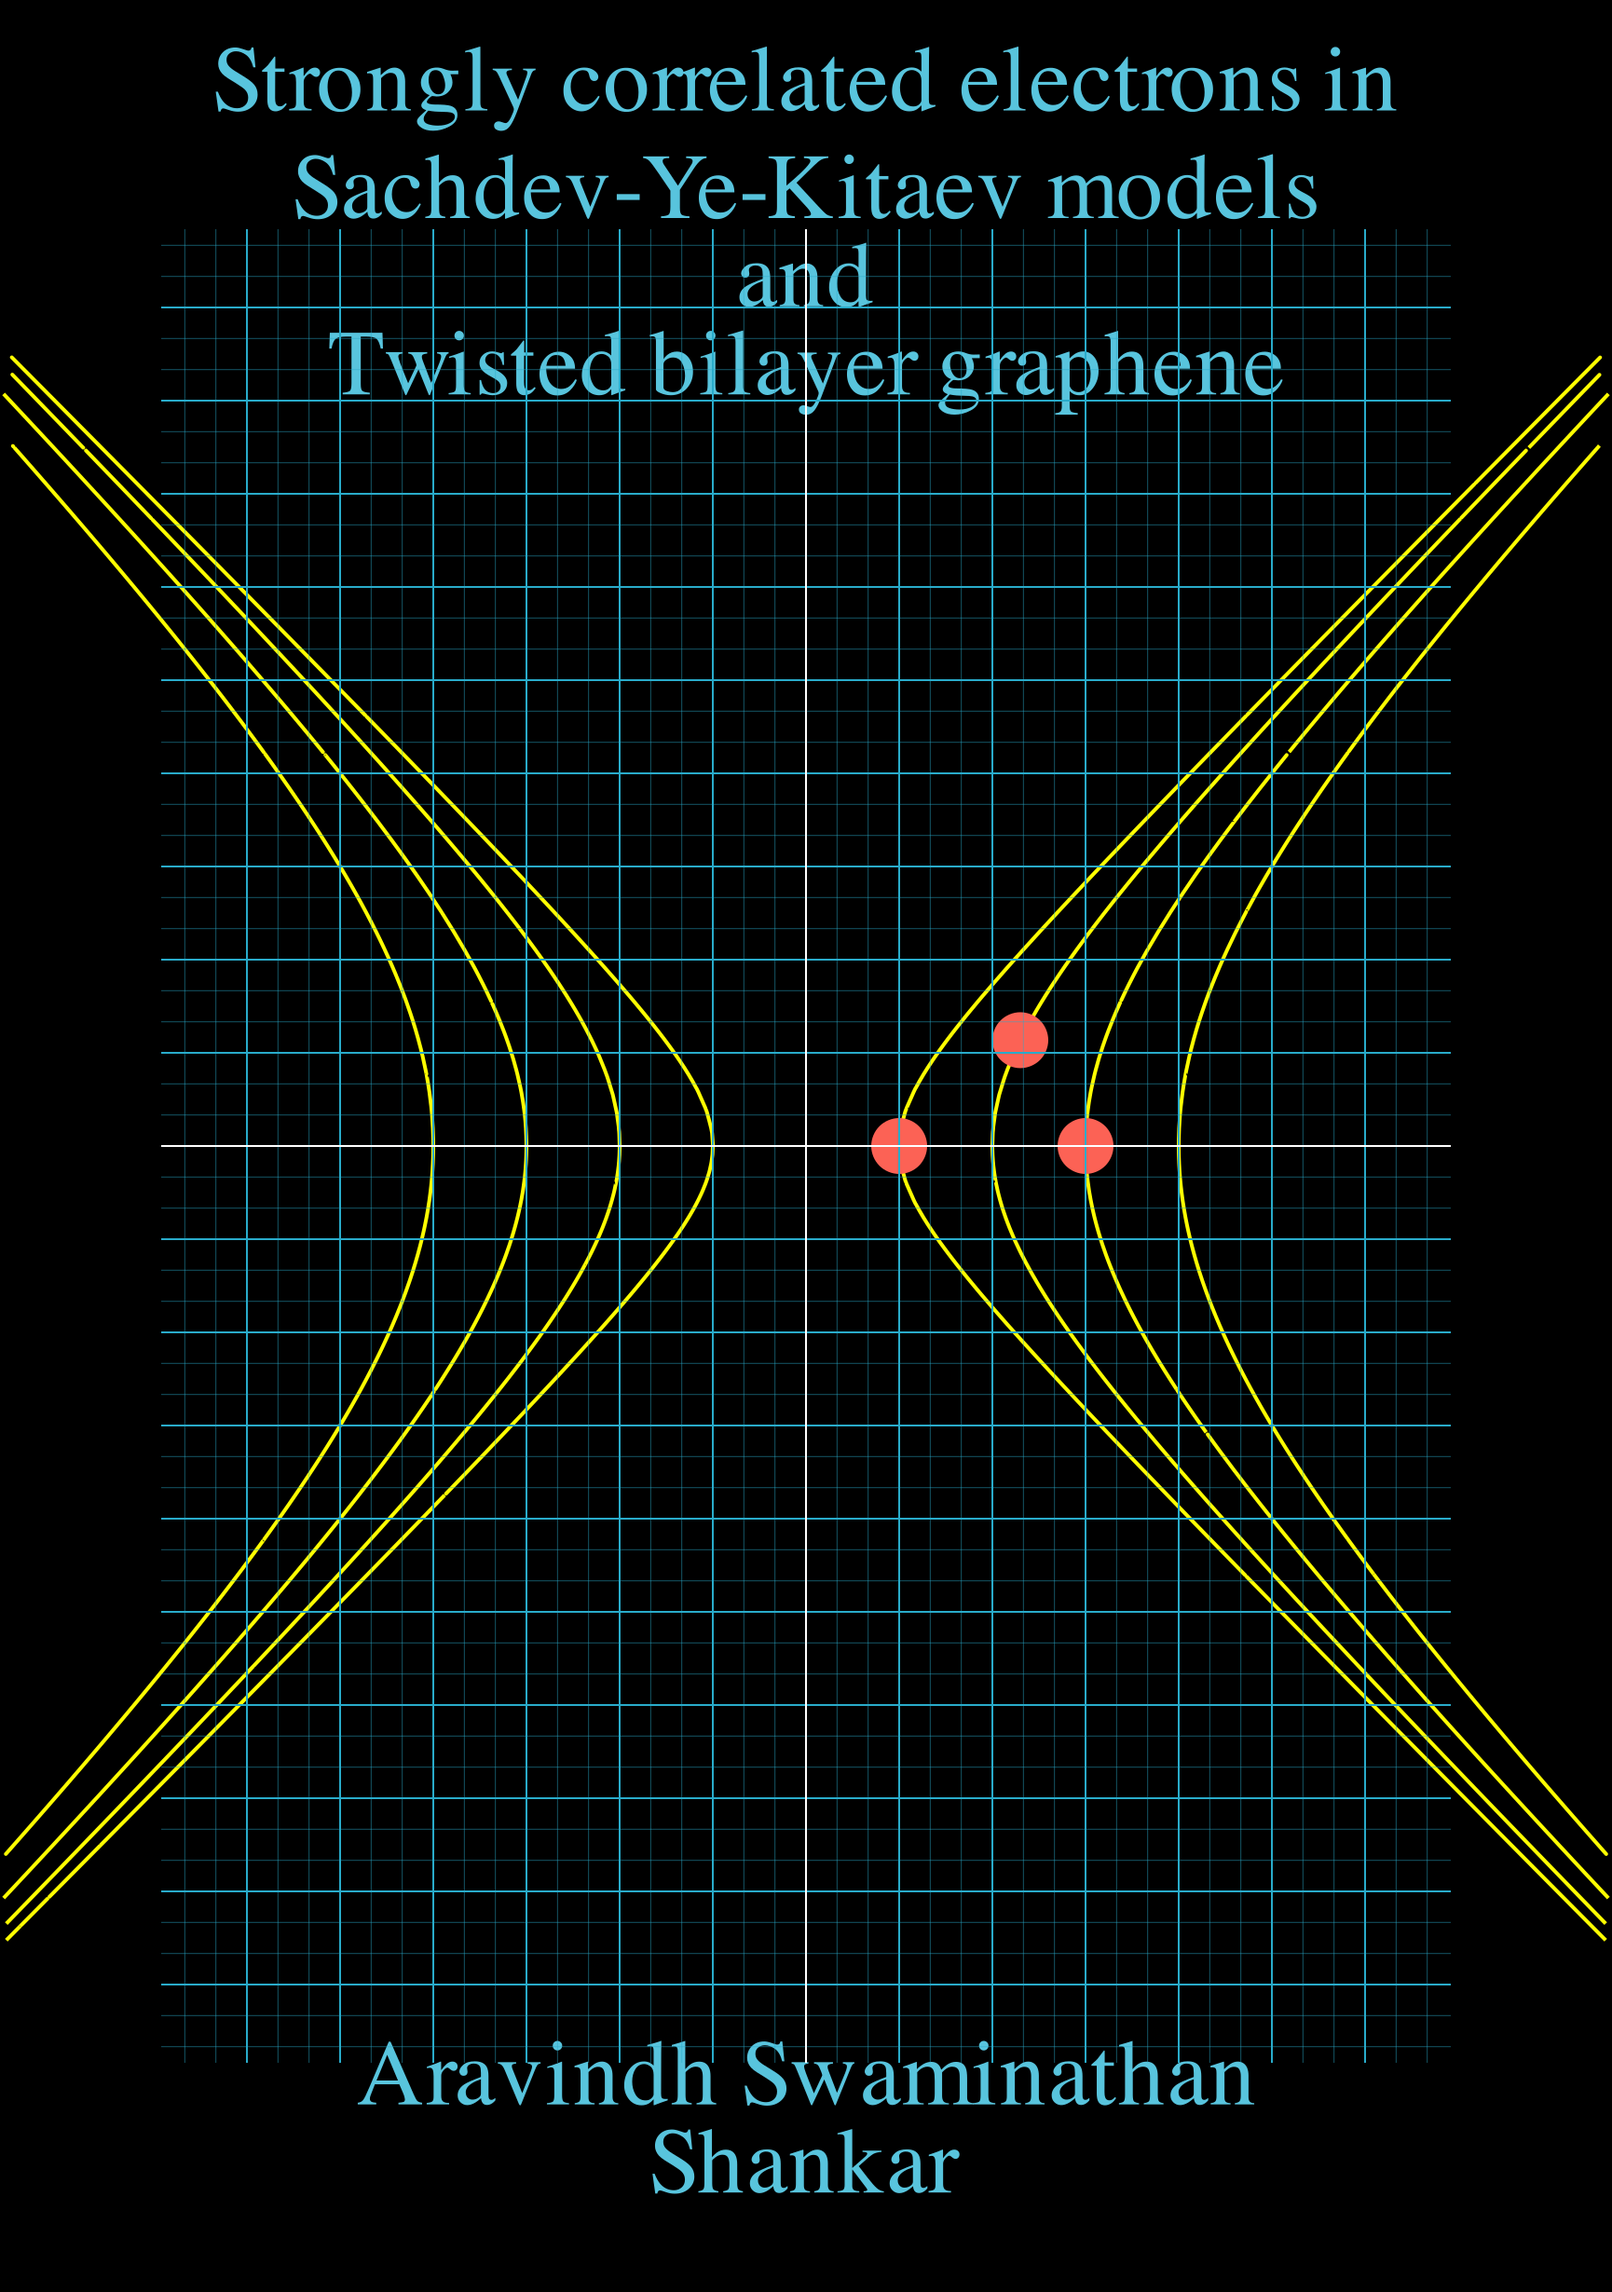
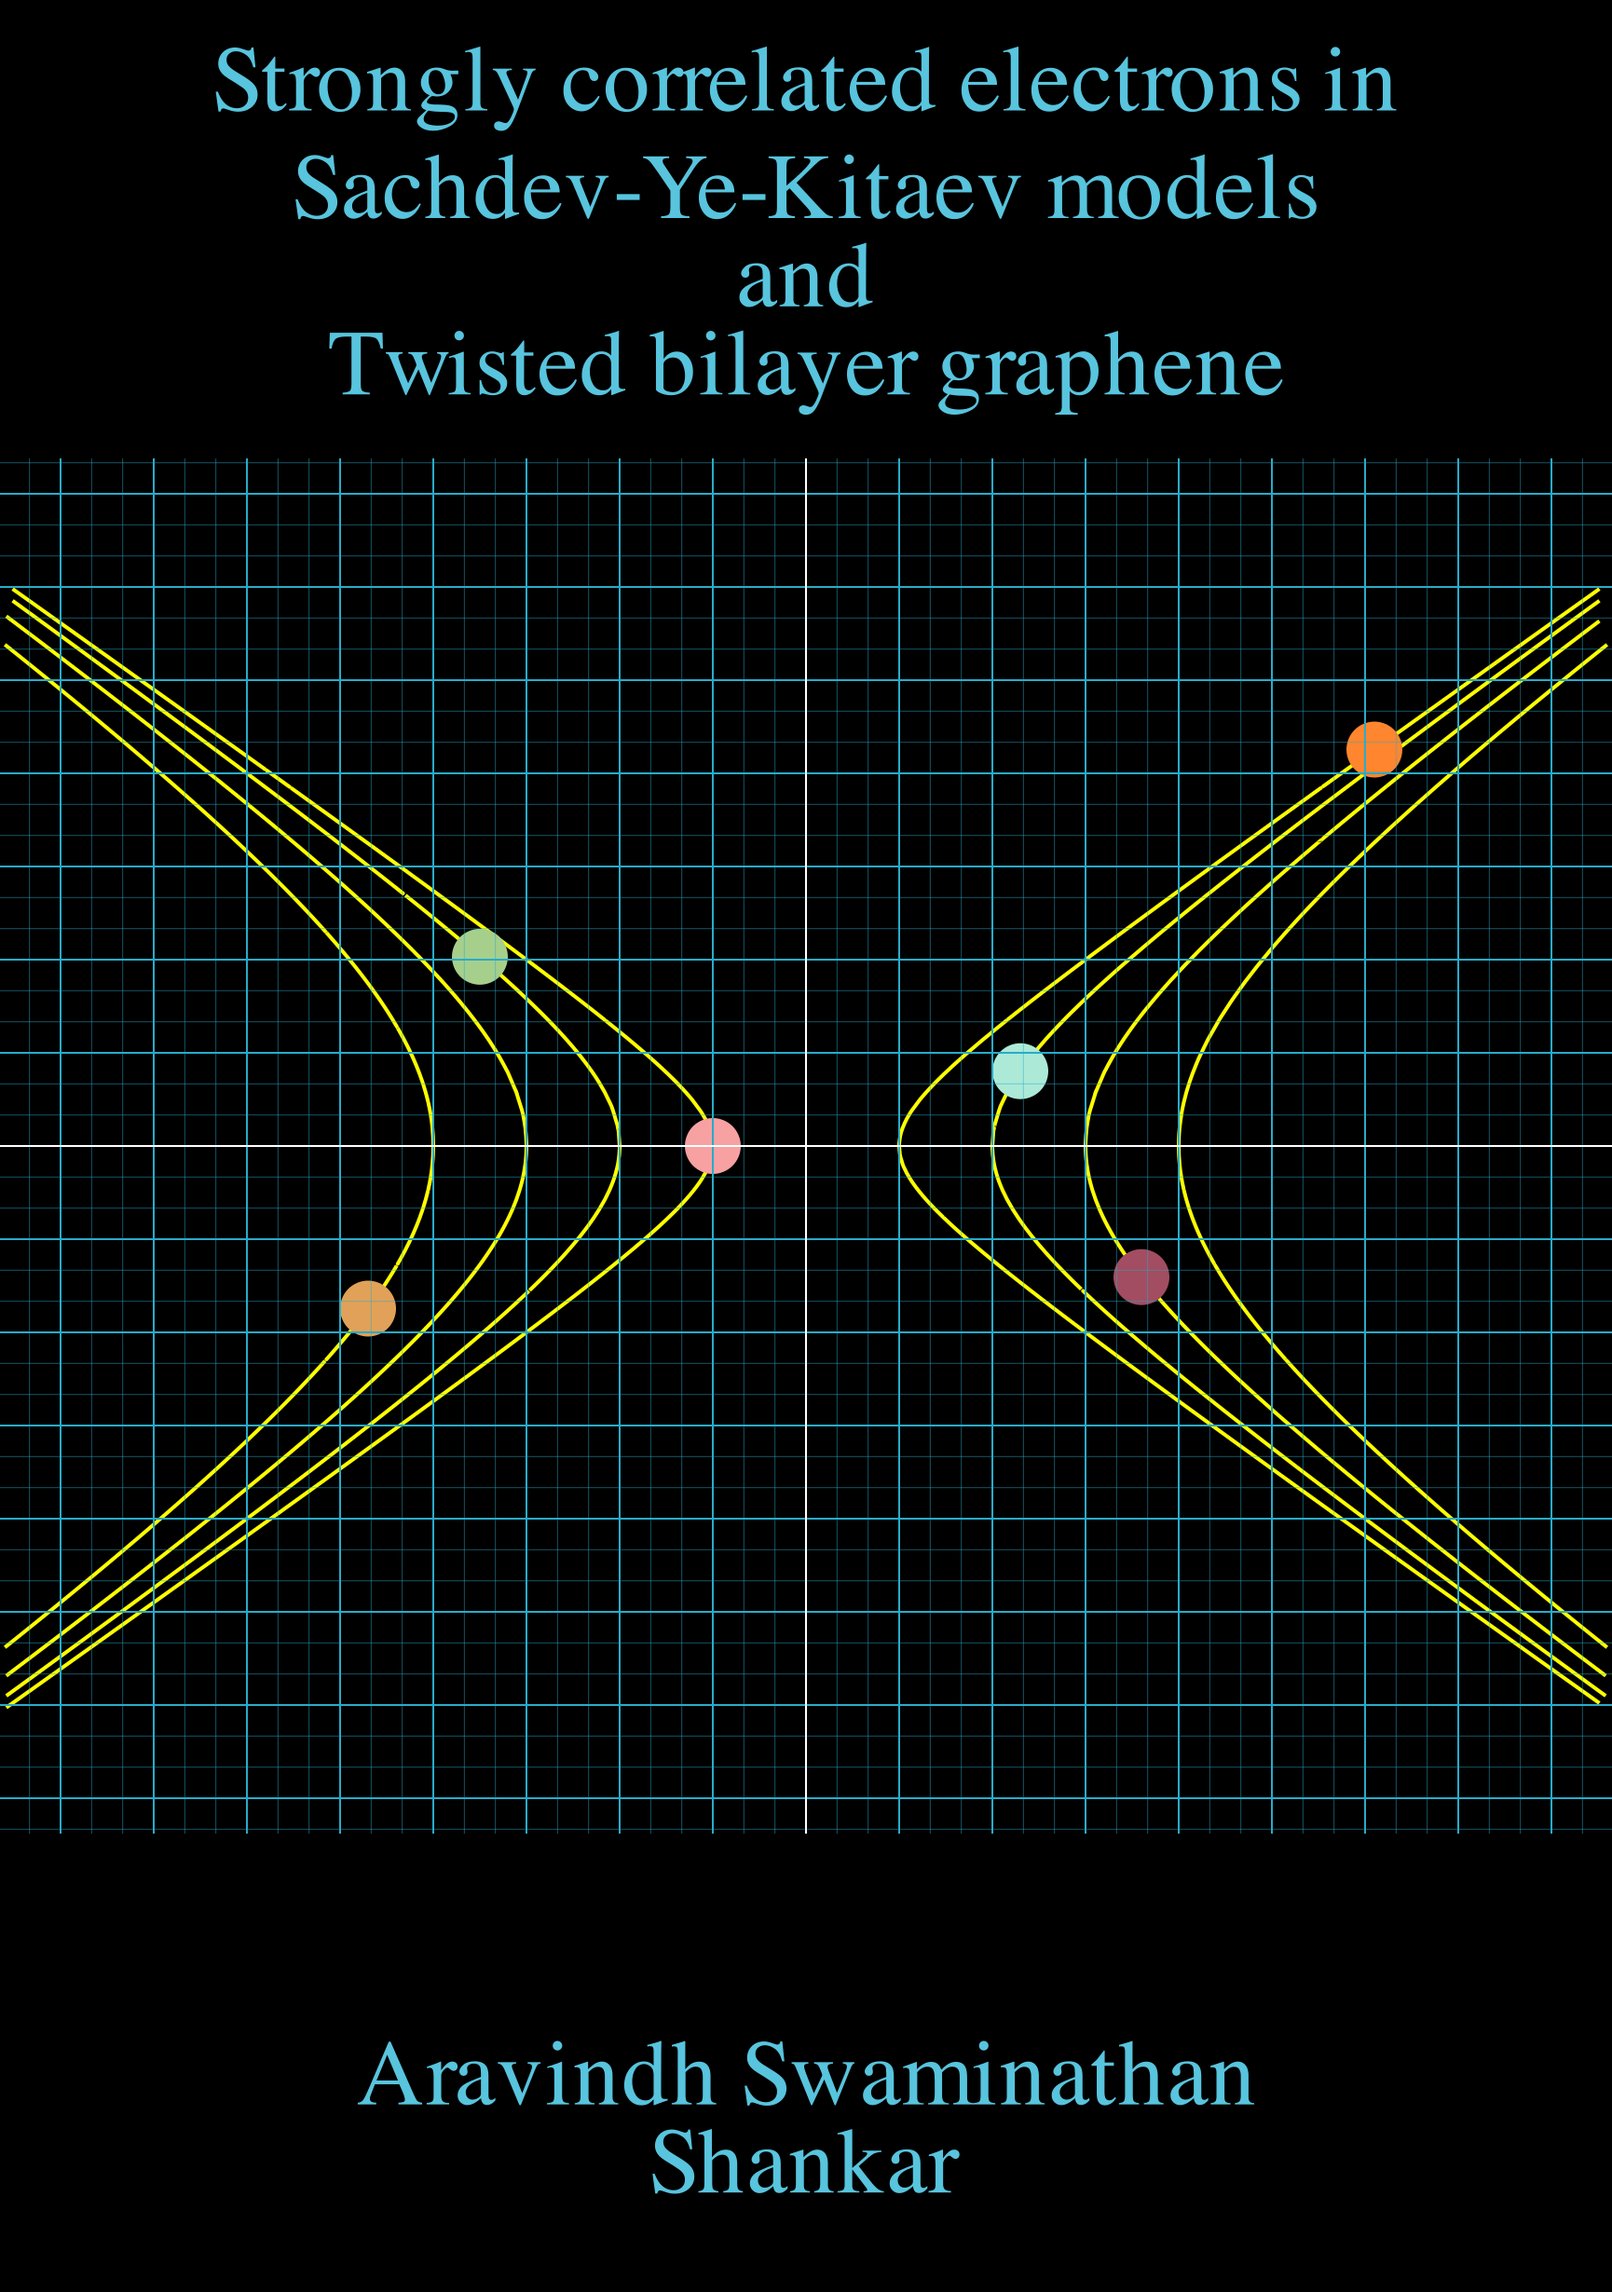
something I'm happy with

diff --git a/manimfig/cover_try.py b/manimfig/cover_try.py
@@ -12,7 +12,7 @@ config.pixel_height = int(config.frame_height * 100)
 class Hyperbolae(Scene):
 	def construct(self):
 		def impfun(x,y,a):
-			return x**2 - y**2 - a**2 
+			return x**2 - 2 * y**2 - a**2 
 		
 		# titletext = Text('Strongly Correlated electrons in \n Sachdev-Ye-Kitaev models \n and \n Twisted Bilayer Graphene', color = BLUE, should_center=True).scale(1).align_on_border(np.array([0,1,0]),buff=0.5)
 		
@@ -37,21 +37,23 @@ class Hyperbolae(Scene):
 
 		######## adding the random color electrons ##########
 		Erad = 0.3
-		xlist = np.array([1,2.3,3,4.7])	
-		ylist = [newton(lambda yval: impfun(x=xlist[i], y=yval, a=alist[i]), x0 = 1) for i in np.arange(len(xlist))]
+		colorlist = [RED_A, TEAL_A, MAROON_D, GOLD_D, ORANGE, GREEN_B]
+		xlist = np.array([1,2.3,3.6,4.7,6.1,3.5])	
+		plotalist = np.array([0,1,2,3,0,1]) #alist[i] will be chosen
+		xsignlist = np.array([-1,1,1,-1,1,-1])
+		ysignlist = np.array([-1,1,-1,-1,1,1])
+		ylist = [newton(lambda yval: impfun(x=xlist[i], y=yval, a=alist[plotalist[i]]), x0 = 1) for i in np.arange(len(xlist))]
 		print(xlist)
 		print(ylist)
-		e1 = Dot([xlist[0],ylist[0],0], radius=Erad, color=RED)
-		e2 = Dot([xlist[1],ylist[1],0], radius=Erad, color=RED)
-		e3 = Dot([xlist[2],ylist[2],0], radius=Erad, color=RED)
-		self.add(e1)
-		self.add(e2)
-		self.add(e3)
-		
+		elist = [Dot([xsignlist[i]*xlist[i],ysignlist[i]*ylist[i],0], radius=Erad, color=colorlist[i]) for i in range(len(xlist))]
+		for electron in elist: 
+			self.add(electron)	
 		######## adding the grid ############
-		wratio = 0.4
+		wratio = 0.5
+		hratiotop = 0.3
+		hratiobottom = 0.3
 		xrangetup = (-config.frame_width * wratio, config.frame_width * wratio, 1)
-		yrangetup = (-config.frame_height * wratio, config.frame_height * wratio, 1)
+		yrangetup = (-config.frame_height * hratiobottom, config.frame_height * hratiotop, 1)
 		numberplane = NumberPlane(x_range=xrangetup, y_range=yrangetup, faded_line_ratio = 3)
 		self.add(numberplane)	
 
